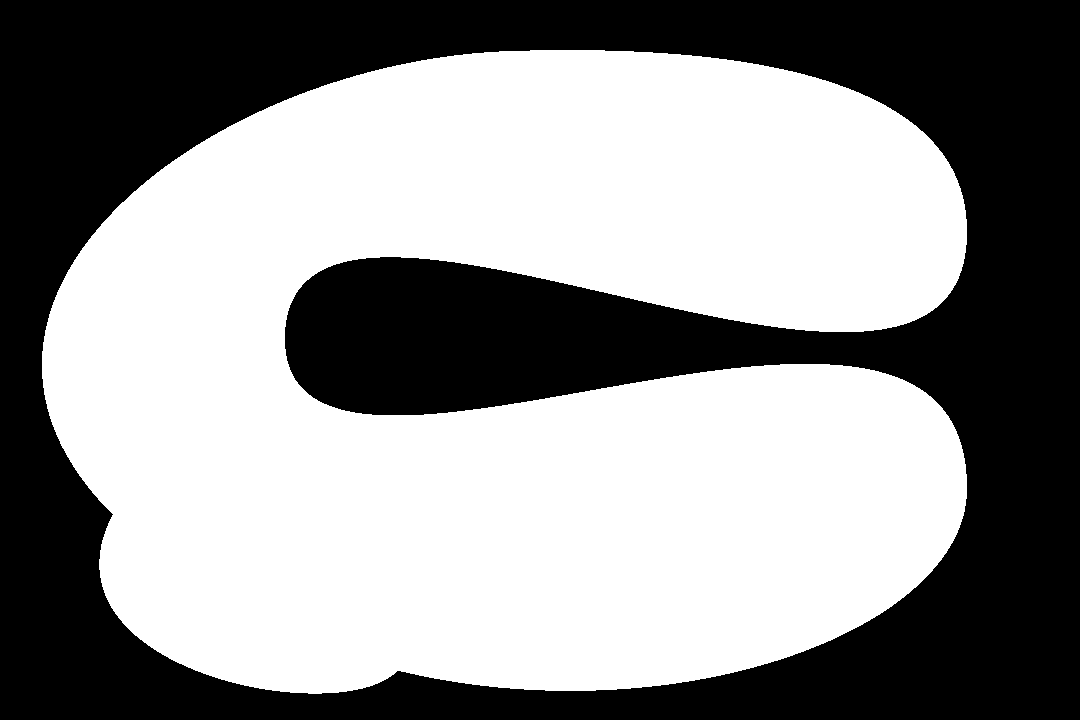
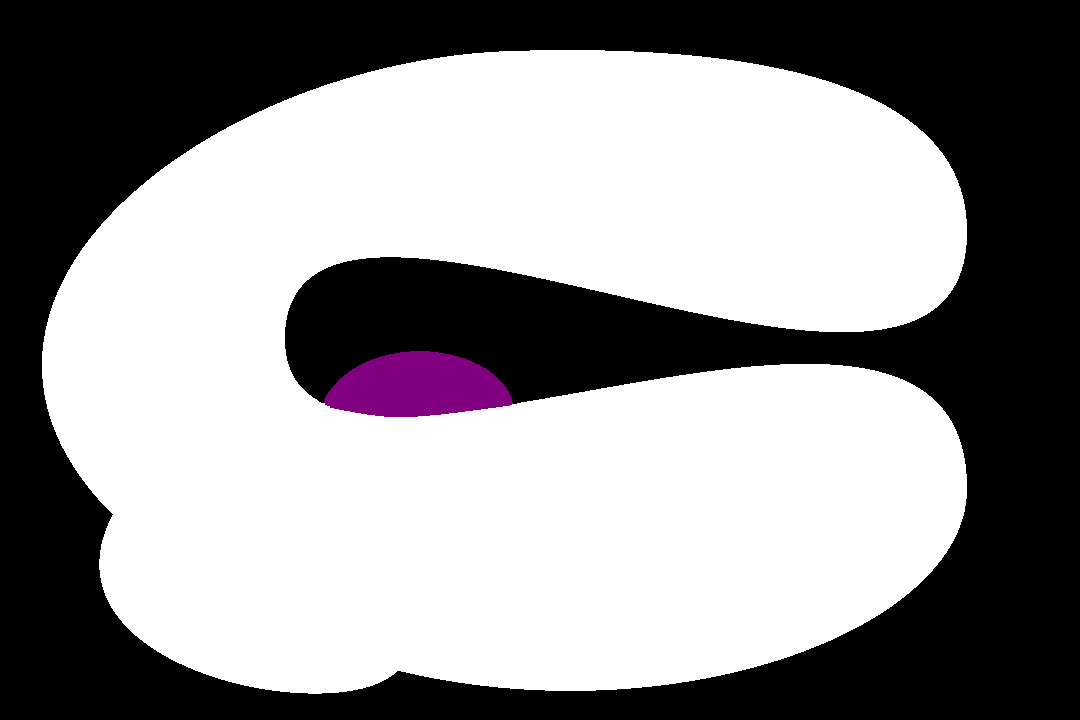
Next level now triggers on colour key (128,0,128)

Changed region(s): [[0.3056, 0.4889, 0.4889, 0.5806]]

diff --git a/Iridium/main.cpp b/Iridium/main.cpp
@@ -20,7 +20,6 @@ public:
     sf::Image level_image;
     sf::Texture level_texture;
     sf::Sprite level_sprite;
-    sf::Color black = sf::Color::Black;
     int control_radius = 25;
     sf::CircleShape control1;
     sf::CircleShape control2;
@@ -38,7 +37,6 @@ public:
         control2.setPosition(corb2_x, corb2_y);
         control1.setFillColor(colour);
         control2.setFillColor(colour);
-
         std::cout << "new level: " << level_number << std::endl;
     };
 
@@ -48,21 +46,29 @@ public:
     void SetControlOrb2Colour(sf::Color colour){control2.setFillColor(colour);}
     sf::Vector2f GetControlOrb1Position(void){return control1.getPosition();}
     sf::Vector2f GetControlOrb2Position(void){return control2.getPosition();}
-    void CollisionPoints(int* points, int x, int y, int r, int p)
+    sf::Sprite GetSprite(){return level_sprite;}
 
+    int CollisionPoints(int *points, int x, int y, int r, int p)
+    // hit == 0 : null | hit == 1 : level end | hit == 2 : ?
     {
-        int num_points = 0;
+        int num_points = 0, hit = 0;
+        sf::Color PointColour;
         for (int i = 0; i < p; i++)
         {
-            if (level_image.getPixel(abs((x + r) + (r * cos(((2 * i) * M_PI) / p))), abs((y + r) + (r * sin(((2 * i) * M_PI) / p)))) == black)
-                {
-                    num_points++;
-                    points[num_points] = i;
-                }
+            PointColour = (level_image.getPixel(abs((x + r) + (r * cos(((2 * i) * M_PI) / p))), abs((y + r) + (r * sin(((2 * i) * M_PI) / p)))));
+            if (PointColour == sf::Color::Black)
+            {
+                num_points++;
+                points[num_points] = i;
+            }
+            if (PointColour == sf::Color(128,0,128))
+            {
+                hit = 1;
+            }
         }
         points[0] = num_points;
+        return hit;
     }
-    sf::Sprite GetSprite(){return level_sprite;}
 };
 
 
@@ -92,8 +98,8 @@ int main()
 
     bool keyState[sf::Keyboard::KeyCount];
     for (int i = 0; i < (sf::Keyboard::KeyCount); i++){keyState[i] = false;}
-    int ball_r;
-    const int detection_points = 30;
+    int ball_r, CollideState;
+    const int detection_points = 36;
     int detected_points[detection_points + 1];
     float i_friction_constant;
     ball_r = 25;
@@ -144,28 +150,28 @@ int main()
 
         if (sf::Keyboard::isKeyPressed(sf::Keyboard::Left))
         {
-            pull_strength = sqrt(pow(fabs(((y + ball_r) - (level -> GetControlOrb1Position().y + level -> control_radius))), 2) + pow(fabs(((x + level -> control_radius) - (level -> GetControlOrb1Position().x + level -> control_radius))), 2));
+            pull_strength = (sqrt(pow(fabs(((y + ball_r) - (level -> GetControlOrb1Position().y + level -> control_radius))), 2) + pow(fabs(((x + level -> control_radius) - (level -> GetControlOrb1Position().x + level -> control_radius))), 2))) * 0.9f;
             if (pushpull == true)
             {
                 x_speed += (cos(atan(fabs(((y + ball_r) - (level -> GetControlOrb1Position().y + level -> control_radius))) / fabs(((x + ball_r) - (level -> GetControlOrb1Position().x + level -> control_radius)))))) * -((pull_strength * pull_constant));
                 y_speed += (sin(atan(fabs(((y + ball_r) - (level -> GetControlOrb1Position().y + level -> control_radius))) / fabs(((x + ball_r) - (level -> GetControlOrb1Position().x + level -> control_radius)))))) * -((pull_strength * (pull_constant / 0.5f)));
             }else{
-                x_speed += (cos(atan(fabs(((y + ball_r) - (level -> GetControlOrb1Position().y + level -> control_radius))) / fabs(((x + ball_r) - (level -> GetControlOrb1Position().x + level -> control_radius)))))) * (1 / -((pull_strength * pull_constant) * -1));
-                y_speed += (sin(atan(fabs(((y + ball_r) - (level -> GetControlOrb1Position().y + level -> control_radius))) / fabs(((x + ball_r) - (level -> GetControlOrb1Position().x + level -> control_radius)))))) * (1 / -((pull_strength * pull_constant / 0.5f) * -1));
+                x_speed += (cos(atan(fabs(((y + ball_r) - (level -> GetControlOrb1Position().y + level -> control_radius))) / fabs(((x + ball_r) - (level -> GetControlOrb1Position().x + level -> control_radius)))))) * (1 / -((pull_strength * pull_constant) * -1)) * 0.1f;
+                y_speed += (sin(atan(fabs(((y + ball_r) - (level -> GetControlOrb1Position().y + level -> control_radius))) / fabs(((x + ball_r) - (level -> GetControlOrb1Position().x + level -> control_radius)))))) * (1 / -((pull_strength * pull_constant / 0.5f) * -1)) * 0.1f;
             }
             lines[0].position = sf::Vector2f(level -> GetControlOrb1Position().x + level -> control_radius, level -> GetControlOrb1Position().y + level -> control_radius);
             lines[1].position = sf::Vector2f((x + ball_r), (y + ball_r));
         }
         if (sf::Keyboard::isKeyPressed(sf::Keyboard::Right))
         {
-            pull_strength = sqrt(pow(fabs(((y + ball_r) - (level -> GetControlOrb2Position().y + level -> control_radius))), 2) + pow(fabs(((x + level -> control_radius) - (level -> GetControlOrb2Position().x + level -> control_radius))), 2));
+            pull_strength = (sqrt(pow(fabs(((y + ball_r) - (level -> GetControlOrb2Position().y + level -> control_radius))), 2) + pow(fabs(((x + level -> control_radius) - (level -> GetControlOrb2Position().x + level -> control_radius))), 2))) * 0.9f;
             if (pushpull == true)
             {
                 x_speed += (cos(atan(fabs(((y + ball_r) - (level -> GetControlOrb2Position().y + level -> control_radius))) / fabs(((x + ball_r) - (level -> GetControlOrb2Position().x + level -> control_radius)))))) * ((pull_strength * pull_constant));
                 y_speed += (sin(atan(fabs(((y + ball_r) - (level -> GetControlOrb2Position().y + level -> control_radius))) / fabs(((x + ball_r) - (level -> GetControlOrb2Position().x + level -> control_radius)))))) * -((pull_strength * (pull_constant / 0.5f)));
             }else{
-                x_speed += (cos(atan(fabs(((y + ball_r) - (level -> GetControlOrb2Position().y + level -> control_radius))) / fabs(((x + ball_r) - (level -> GetControlOrb2Position().x + level -> control_radius)))))) * (1 / ((pull_strength * pull_constant) * -1));
-                y_speed += (sin(atan(fabs(((y + ball_r) - (level -> GetControlOrb2Position().y + level -> control_radius))) / fabs(((x + ball_r) - (level -> GetControlOrb2Position().x + level -> control_radius)))))) * (1 / -((pull_strength * (pull_constant / 0.5f)) * -1));
+                x_speed += (cos(atan(fabs(((y + ball_r) - (level -> GetControlOrb2Position().y + level -> control_radius))) / fabs(((x + ball_r) - (level -> GetControlOrb2Position().x + level -> control_radius)))))) * (1 / ((pull_strength * pull_constant) * -1)) * 0.1f;
+                y_speed += (sin(atan(fabs(((y + ball_r) - (level -> GetControlOrb2Position().y + level -> control_radius))) / fabs(((x + ball_r) - (level -> GetControlOrb2Position().x + level -> control_radius)))))) * (1 / -((pull_strength * (pull_constant / 0.5f)) * -1)) * 0.1f;
             }
             lines[2].position = sf::Vector2f(level -> GetControlOrb2Position().x + level -> control_radius, level -> GetControlOrb2Position().y + level -> control_radius);
             lines[3].position = sf::Vector2f((x + ball_r), (y + ball_r));
@@ -176,7 +182,7 @@ int main()
         y += y_speed;
         x += x_speed;
 
-        level->CollisionPoints(detected_points, x, y, ball_r, detection_points);
+        CollideState = level->CollisionPoints(detected_points, x, y, ball_r, detection_points);
         if (detected_points[0] != 0)
         {
             sf::Vector2f col_tangent = AddVectors(detected_points, detection_points, (sqrt((x_speed * x_speed) + (y_speed * y_speed))));
@@ -184,6 +190,10 @@ int main()
             y_speed += (col_tangent.y) * i_friction_constant;
             x = prev_x;
             y = prev_y;
+        }
+        if (CollideState == 1)
+        {
+            level = new Level(current_level_num + 1, 30, 30, 1000, 30, sf::Color::Red);
         }
         ball.setPosition(x, y);
         win.draw(level->GetSprite());
